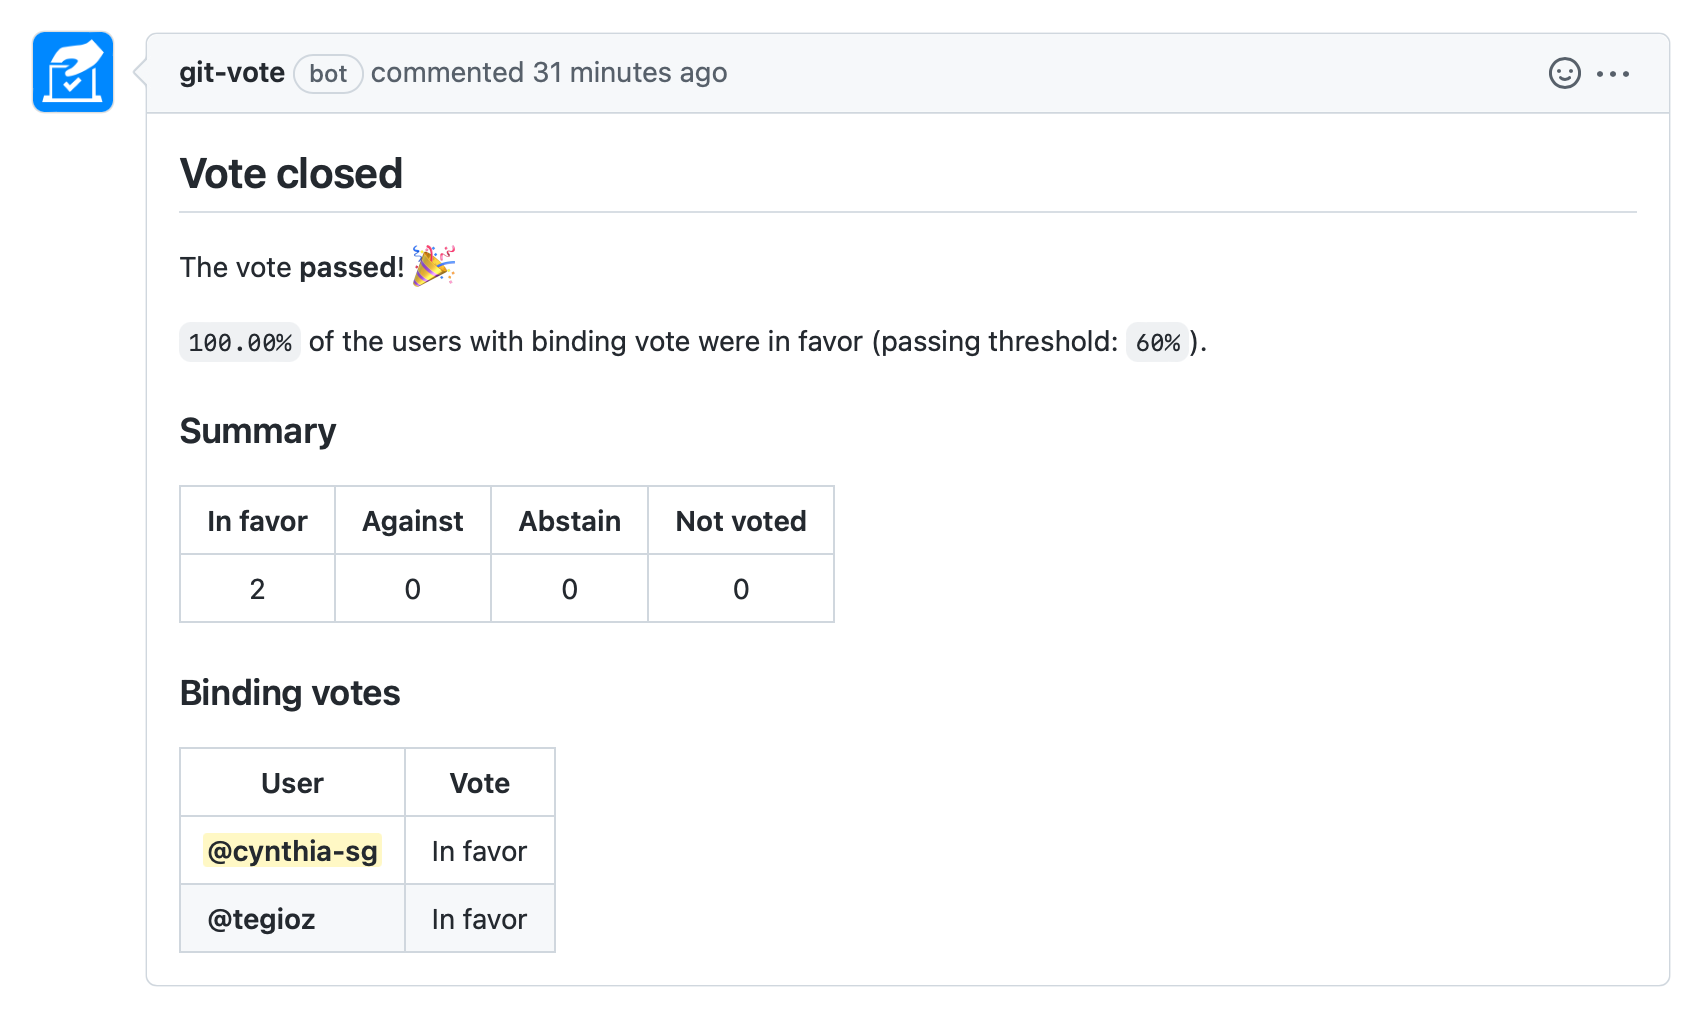
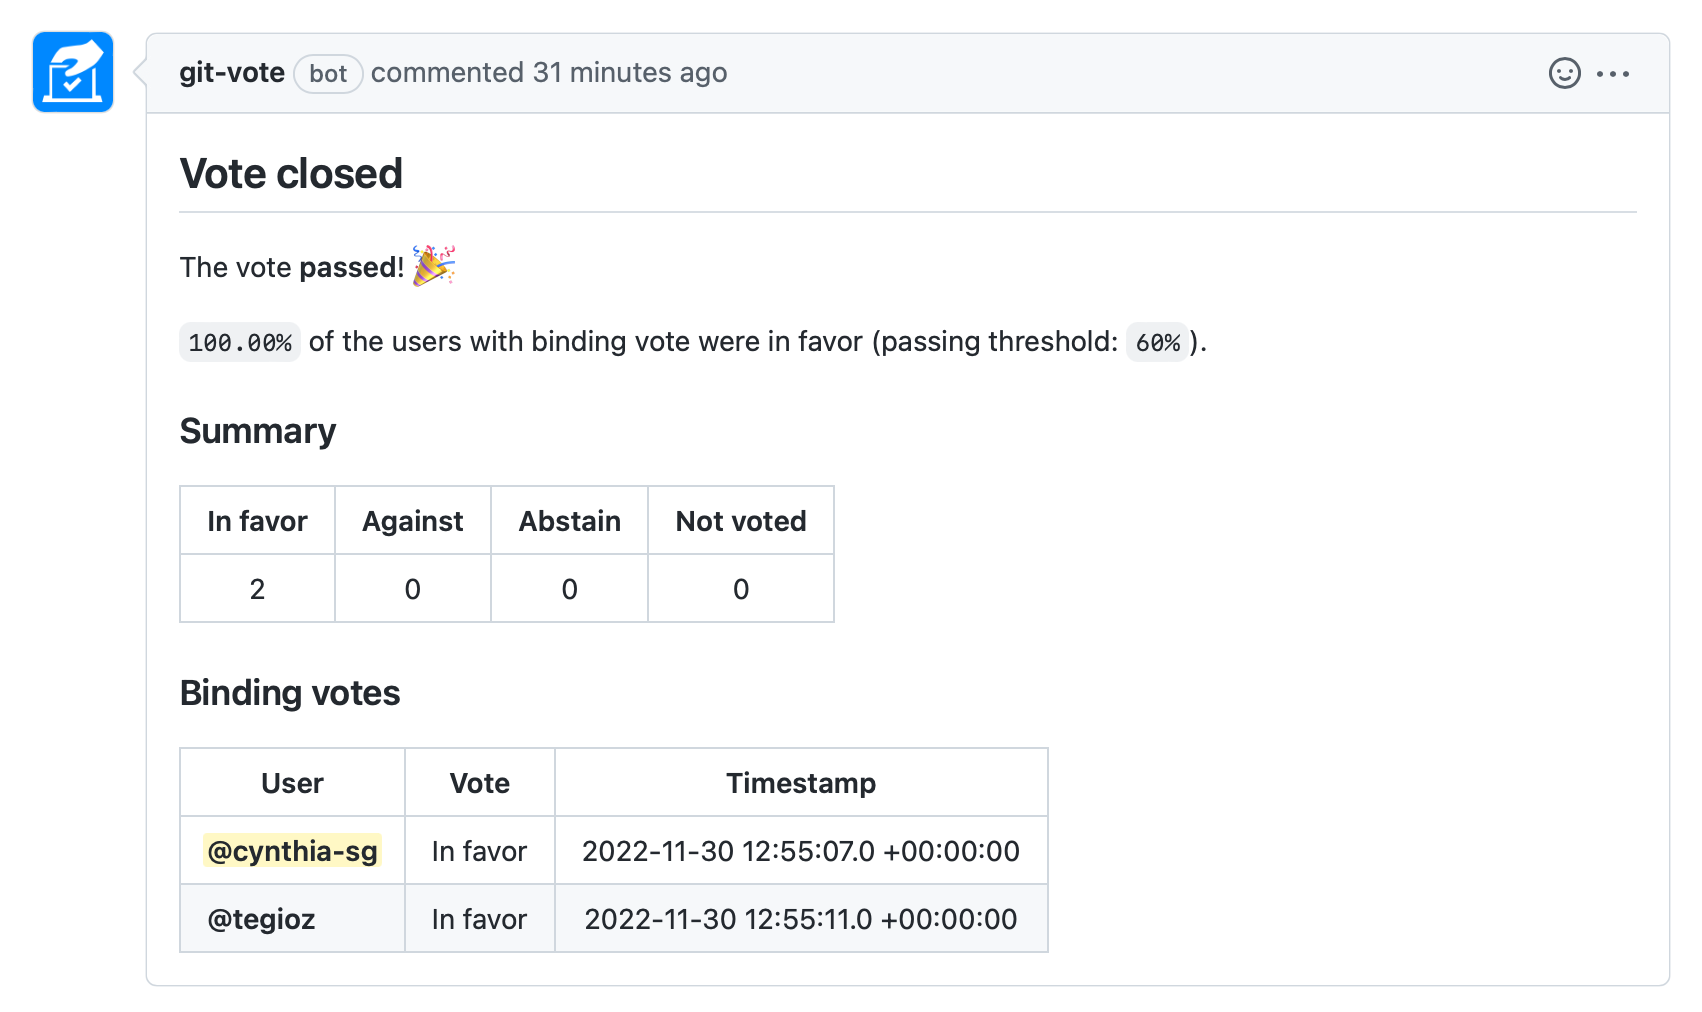
Display votes timestamp on results report (#163)
Related to #162

Changed region(s): [[0.3425, 0.8883, 0.6228, 0.919], [0.3425, 0.8271, 0.6228, 0.8577], [0.436, 0.7658, 0.5294, 0.7964]]

diff --git a/src/results.rs b/src/results.rs
@@ -5,7 +5,7 @@ use crate::{
 use anyhow::{format_err, Result};
 use serde::{Deserialize, Serialize};
 use std::{collections::HashMap, fmt};
-use time::OffsetDateTime;
+use time::{format_description::well_known::Rfc3339, OffsetDateTime};
 use uuid::Uuid;
 
 /// Supported reactions.
@@ -76,7 +76,14 @@ pub(crate) struct VoteResults {
     pub abstain: i64,
     pub not_voted: i64,
     pub allowed_voters: i64,
-    pub votes: HashMap<UserName, VoteOption>,
+    pub votes: HashMap<UserName, UserVote>,
+}
+
+/// User's vote details.
+#[derive(Debug, Clone, PartialEq, Serialize, Deserialize)]
+pub(crate) struct UserVote {
+    pub vote_option: VoteOption,
+    pub timestamp: OffsetDateTime,
 }
 
 /// Calculate vote results.
@@ -98,7 +105,7 @@ pub(crate) async fn calculate<'a>(
         .await?;
 
     // Track users votes
-    let mut votes: HashMap<UserName, VoteOption> = HashMap::new();
+    let mut votes: HashMap<UserName, UserVote> = HashMap::new();
     let mut multiple_options_voters: Vec<UserName> = Vec::new();
     for reaction in reactions {
         // Get vote option from reaction
@@ -129,13 +136,20 @@ pub(crate) async fn calculate<'a>(
         }
 
         // Track binding vote
-        votes.insert(username, vote_option);
+        votes.insert(
+            username,
+            UserVote {
+                vote_option,
+                timestamp: OffsetDateTime::parse(reaction.created_at.as_str(), &Rfc3339)
+                    .expect("created_at timestamp to be valid"),
+            },
+        );
     }
 
     // Prepare results and return them
     let (mut in_favor, mut against, mut abstain) = (0, 0, 0);
-    for (_, vote_option) in votes.iter() {
-        match vote_option {
+    for (_, user_vote) in votes.iter() {
+        match user_vote.vote_option {
             VoteOption::InFavor => in_favor += 1,
             VoteOption::Against => against += 1,
             VoteOption::Abstain => abstain += 1,
@@ -250,14 +264,17 @@ mod tests {
                 Reaction {
                     user: User { login: USER1.to_string() },
                     content: "unsupported".to_string(),
+                    created_at: TIMESTAMP.to_string(),
                 },
                 Reaction {
                     user: User { login: USER1.to_string() },
                     content: REACTION_AGAINST.to_string(),
+                    created_at: TIMESTAMP.to_string(),
                 },
                 Reaction {
                     user: User { login: USER1.to_string() },
                     content: "unsupported".to_string(),
+                    created_at: TIMESTAMP.to_string(),
                 }
             ],
             allowed_voters: vec![
@@ -272,7 +289,13 @@ mod tests {
                 abstain: 0,
                 not_voted: 0,
                 votes: HashMap::from([
-                    (USER1.to_string(), VoteOption::Against)
+                    (
+                        USER1.to_string(),
+                        UserVote {
+                            vote_option: VoteOption::Against,
+                            timestamp: OffsetDateTime::parse(TIMESTAMP, &Rfc3339).unwrap(),
+                        },
+                    )
                 ]),
                 allowed_voters: 1,
             }
@@ -289,10 +312,12 @@ mod tests {
                 Reaction {
                     user: User { login: USER1.to_string() },
                     content: REACTION_AGAINST.to_string(),
+                    created_at: TIMESTAMP.to_string(),
                 },
                 Reaction {
                     user: User { login: USER2.to_string() },
                     content: REACTION_AGAINST.to_string(),
+                    created_at: TIMESTAMP.to_string(),
                 }
             ],
             allowed_voters: vec![
@@ -307,7 +332,13 @@ mod tests {
                 abstain: 0,
                 not_voted: 0,
                 votes: HashMap::from([
-                    (USER1.to_string(), VoteOption::Against)
+                    (
+                        USER1.to_string(),
+                        UserVote {
+                            vote_option: VoteOption::Against,
+                            timestamp: OffsetDateTime::parse(TIMESTAMP, &Rfc3339).unwrap(),
+                        },
+                    )
                 ]),
                 allowed_voters: 1,
             }
@@ -324,10 +355,12 @@ mod tests {
                 Reaction {
                     user: User { login: USER1.to_string() },
                     content: REACTION_AGAINST.to_string(),
+                    created_at: TIMESTAMP.to_string(),
                 },
                 Reaction {
                     user: User { login: USER1.to_string() },
                     content: REACTION_ABSTAIN.to_string(),
+                    created_at: TIMESTAMP.to_string(),
                 }
             ],
             allowed_voters: vec![
@@ -357,14 +390,17 @@ mod tests {
                 Reaction {
                     user: User { login: USER1.to_string() },
                     content: REACTION_IN_FAVOR.to_string(),
+                    created_at: TIMESTAMP.to_string(),
                 },
                 Reaction {
                     user: User { login: USER2.to_string() },
                     content: REACTION_AGAINST.to_string(),
+                    created_at: TIMESTAMP.to_string(),
                 },
                 Reaction {
                     user: User { login: USER3.to_string() },
                     content: REACTION_ABSTAIN.to_string(),
+                    created_at: TIMESTAMP.to_string(),
                 }
             ],
             allowed_voters: vec![
@@ -382,9 +418,27 @@ mod tests {
                 abstain: 1,
                 not_voted: 1,
                 votes: HashMap::from([
-                    (USER1.to_string(), VoteOption::InFavor),
-                    (USER2.to_string(), VoteOption::Against),
-                    (USER3.to_string(), VoteOption::Abstain),
+                    (
+                        USER1.to_string(),
+                        UserVote {
+                            vote_option: VoteOption::InFavor,
+                            timestamp: OffsetDateTime::parse(TIMESTAMP, &Rfc3339).unwrap(),
+                        },
+                    ),
+                    (
+                        USER2.to_string(),
+                        UserVote {
+                            vote_option: VoteOption::Against,
+                            timestamp: OffsetDateTime::parse(TIMESTAMP, &Rfc3339).unwrap(),
+                        },
+                    ),
+                    (
+                        USER3.to_string(),
+                        UserVote {
+                            vote_option: VoteOption::Abstain,
+                            timestamp: OffsetDateTime::parse(TIMESTAMP, &Rfc3339).unwrap(),
+                        },
+                    ),
                 ]),
                 allowed_voters: 4,
             }
@@ -401,14 +455,17 @@ mod tests {
                 Reaction {
                     user: User { login: USER1.to_string() },
                     content: REACTION_IN_FAVOR.to_string(),
+                    created_at: TIMESTAMP.to_string(),
                 },
                 Reaction {
                     user: User { login: USER2.to_string() },
                     content: REACTION_IN_FAVOR.to_string(),
+                    created_at: TIMESTAMP.to_string(),
                 },
                 Reaction {
                     user: User { login: USER3.to_string() },
                     content: REACTION_IN_FAVOR.to_string(),
+                    created_at: TIMESTAMP.to_string(),
                 }
             ],
             allowed_voters: vec![
@@ -426,9 +483,27 @@ mod tests {
                 abstain: 0,
                 not_voted: 1,
                 votes: HashMap::from([
-                    (USER1.to_string(), VoteOption::InFavor),
-                    (USER2.to_string(), VoteOption::InFavor),
-                    (USER3.to_string(), VoteOption::InFavor),
+                    (
+                        USER1.to_string(),
+                        UserVote {
+                            vote_option: VoteOption::InFavor,
+                            timestamp: OffsetDateTime::parse(TIMESTAMP, &Rfc3339).unwrap(),
+                        },
+                    ),
+                    (
+                        USER2.to_string(),
+                        UserVote {
+                            vote_option: VoteOption::InFavor,
+                            timestamp: OffsetDateTime::parse(TIMESTAMP, &Rfc3339).unwrap(),
+                        },
+                    ),
+                    (
+                        USER3.to_string(),
+                        UserVote {
+                            vote_option: VoteOption::InFavor,
+                            timestamp: OffsetDateTime::parse(TIMESTAMP, &Rfc3339).unwrap(),
+                        },
+                    ),
                 ]),
                 allowed_voters: 4,
             }

diff --git a/src/testutil.rs b/src/testutil.rs
@@ -1,10 +1,10 @@
 use crate::{
     cfg::{AllowedVoters, CfgProfile},
     github::*,
-    results::{Vote, VoteOption, VoteResults},
+    results::{UserVote, Vote, VoteOption, VoteResults},
 };
 use std::{collections::HashMap, fs, path::Path, time::Duration};
-use time::OffsetDateTime;
+use time::{format_description::well_known::Rfc3339, OffsetDateTime};
 use uuid::Uuid;
 
 pub(crate) const BRANCH: &str = "main";
@@ -28,6 +28,7 @@ pub(crate) const USER3: &str = "user3";
 pub(crate) const USER4: &str = "user4";
 pub(crate) const TEAM1: &str = "team1";
 pub(crate) const VOTE_ID: &str = "00000000-0000-0000-0000-000000000001";
+pub(crate) const TIMESTAMP: &str = "2022-11-30T10:00:00Z";
 
 pub(crate) fn get_test_invalid_config() -> String {
     fs::read_to_string(Path::new(TESTDATA_PATH).join("config-invalid.yml")).unwrap()
@@ -148,7 +149,13 @@ pub(crate) fn setup_test_vote_results() -> VoteResults {
         against: 0,
         abstain: 0,
         not_voted: 0,
-        votes: HashMap::from([(USER1.to_string(), VoteOption::InFavor)]),
+        votes: HashMap::from([(
+            USER1.to_string(),
+            UserVote {
+                vote_option: VoteOption::InFavor,
+                timestamp: OffsetDateTime::parse(TIMESTAMP, &Rfc3339).unwrap(),
+            },
+        )]),
         allowed_voters: 1,
     }
 }

diff --git a/src/github.rs b/src/github.rs
@@ -539,6 +539,7 @@ pub(crate) struct PullRequestInIssue {
 pub(crate) struct Reaction {
     pub user: User,
     pub content: String,
+    pub created_at: String,
 }
 
 #[derive(Debug, Clone, PartialEq, Serialize, Deserialize)]

diff --git a/templates/vote-closed.md b/templates/vote-closed.md
@@ -13,9 +13,9 @@ The vote {% if results.passed %}**passed**! 🎉{% else %}**did not pass**.{% en
 {% if !results.votes.is_empty() %}
 ### Binding votes
 
-| User | Vote  |
-| ---- | :---: |
+| User | Vote  | Timestamp |
+| ---- | :---: | :-------: |
 {% for (user, vote) in results.votes -%}
-| @{{ user }} | {{ vote }} |
+| @{{ user }} | {{ vote.vote_option }} | {{ vote.timestamp }} |
 {% endfor %}
 {% endif %}
